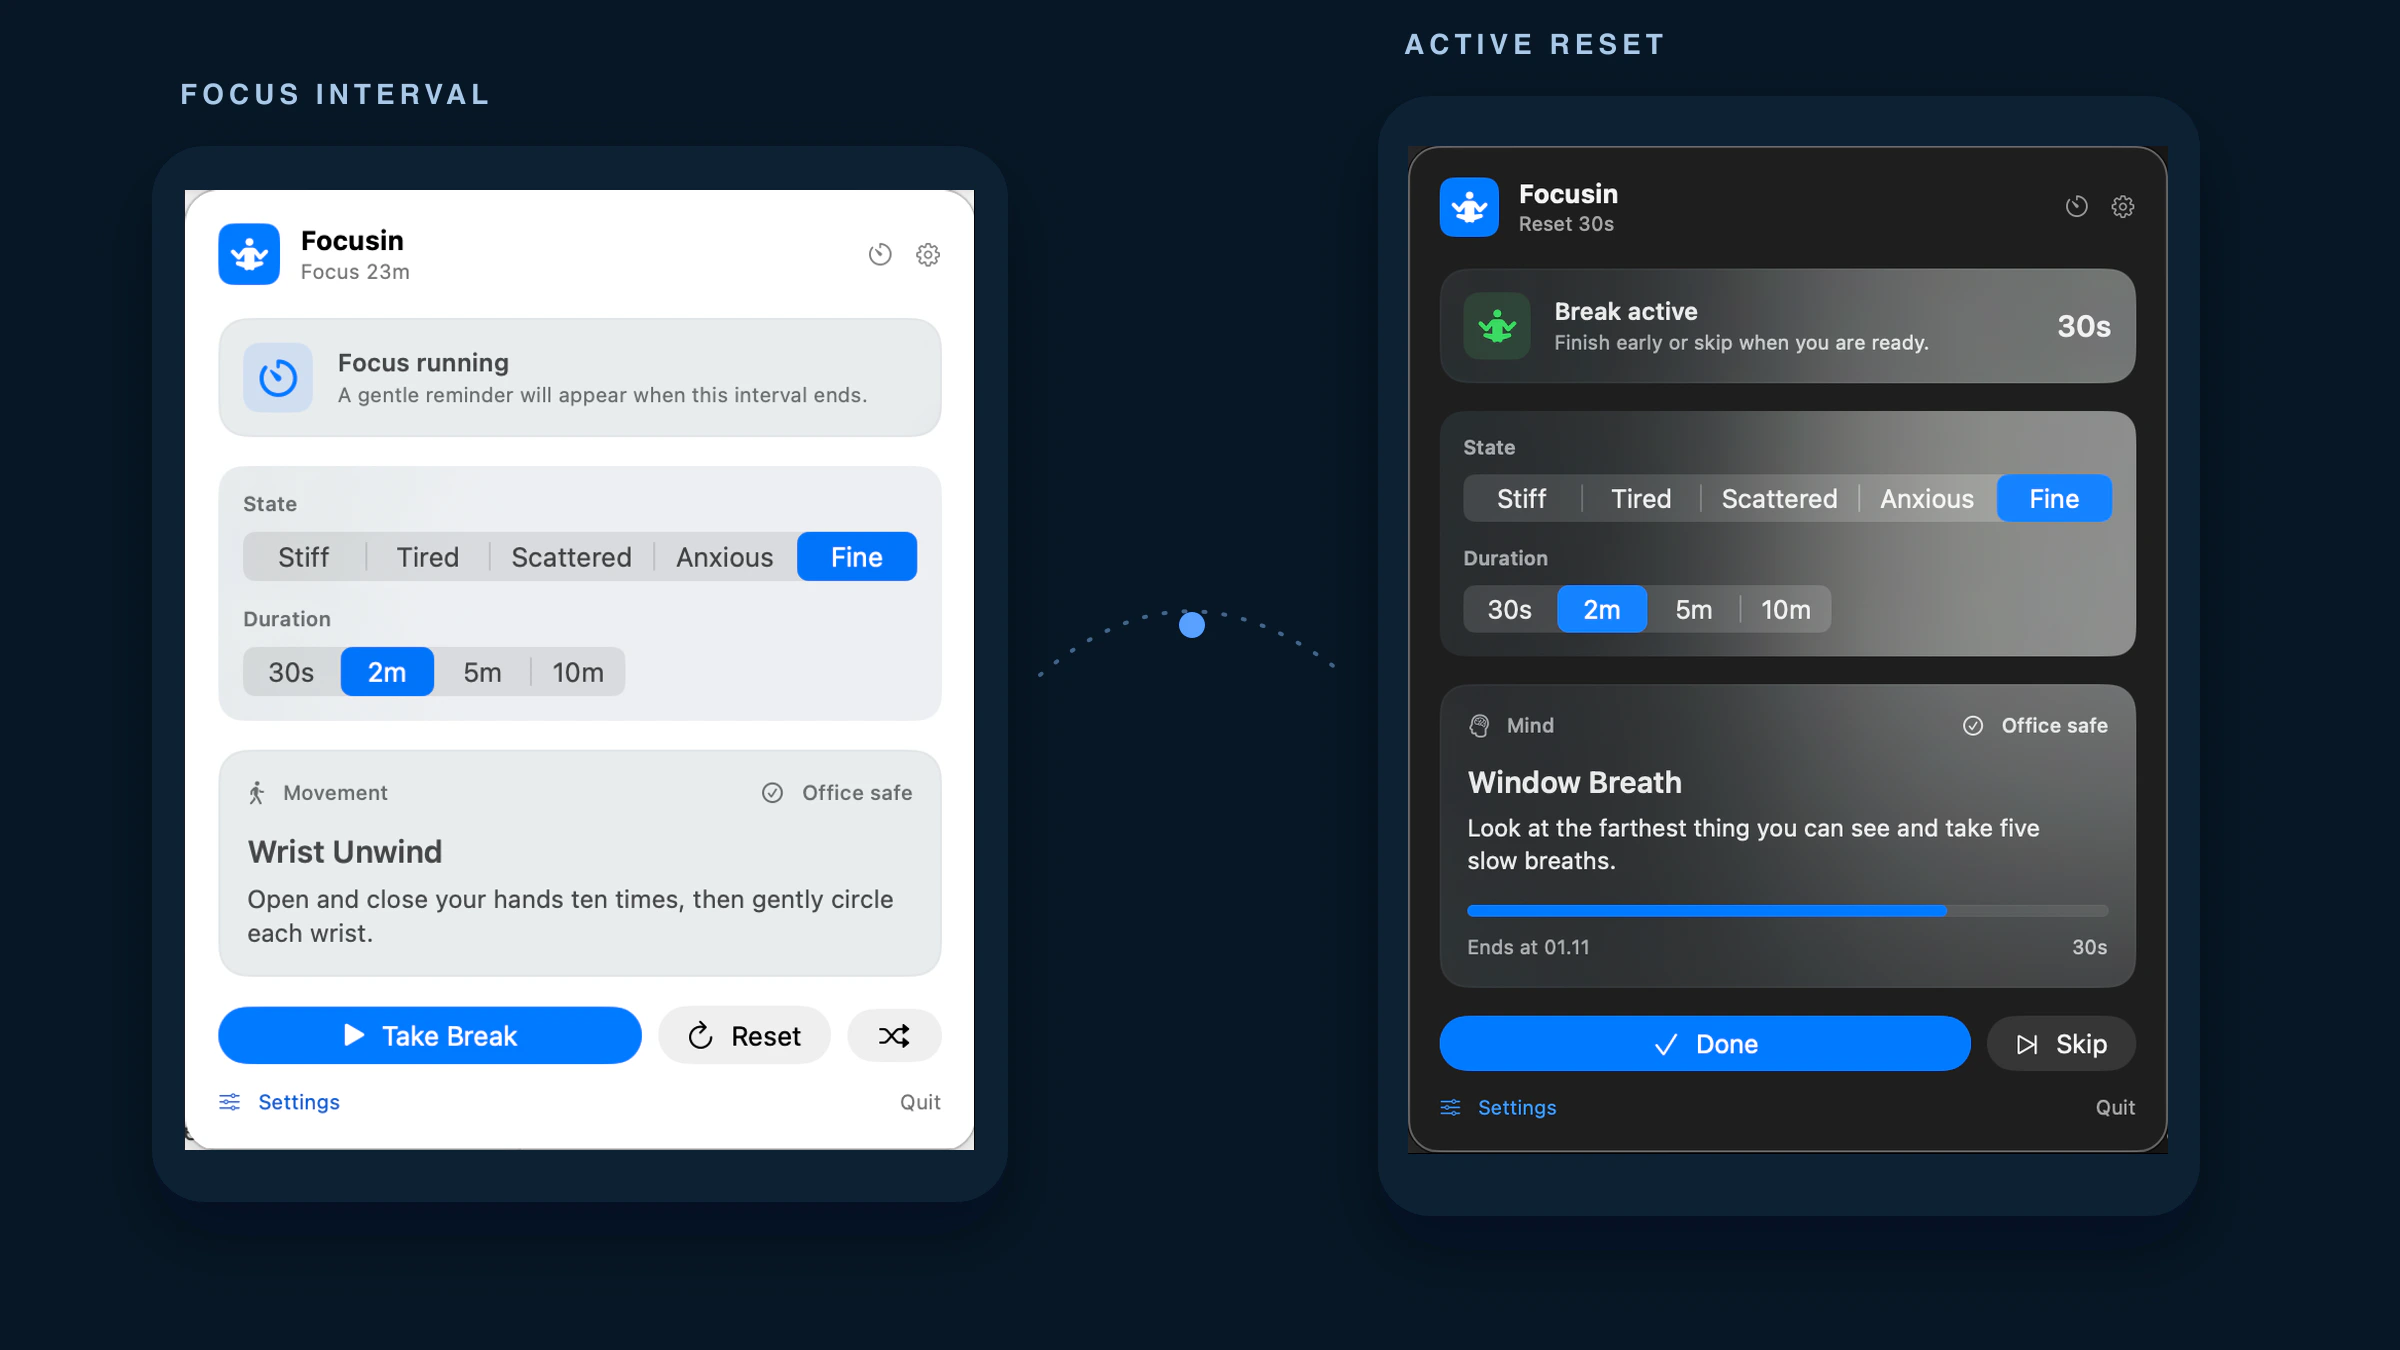
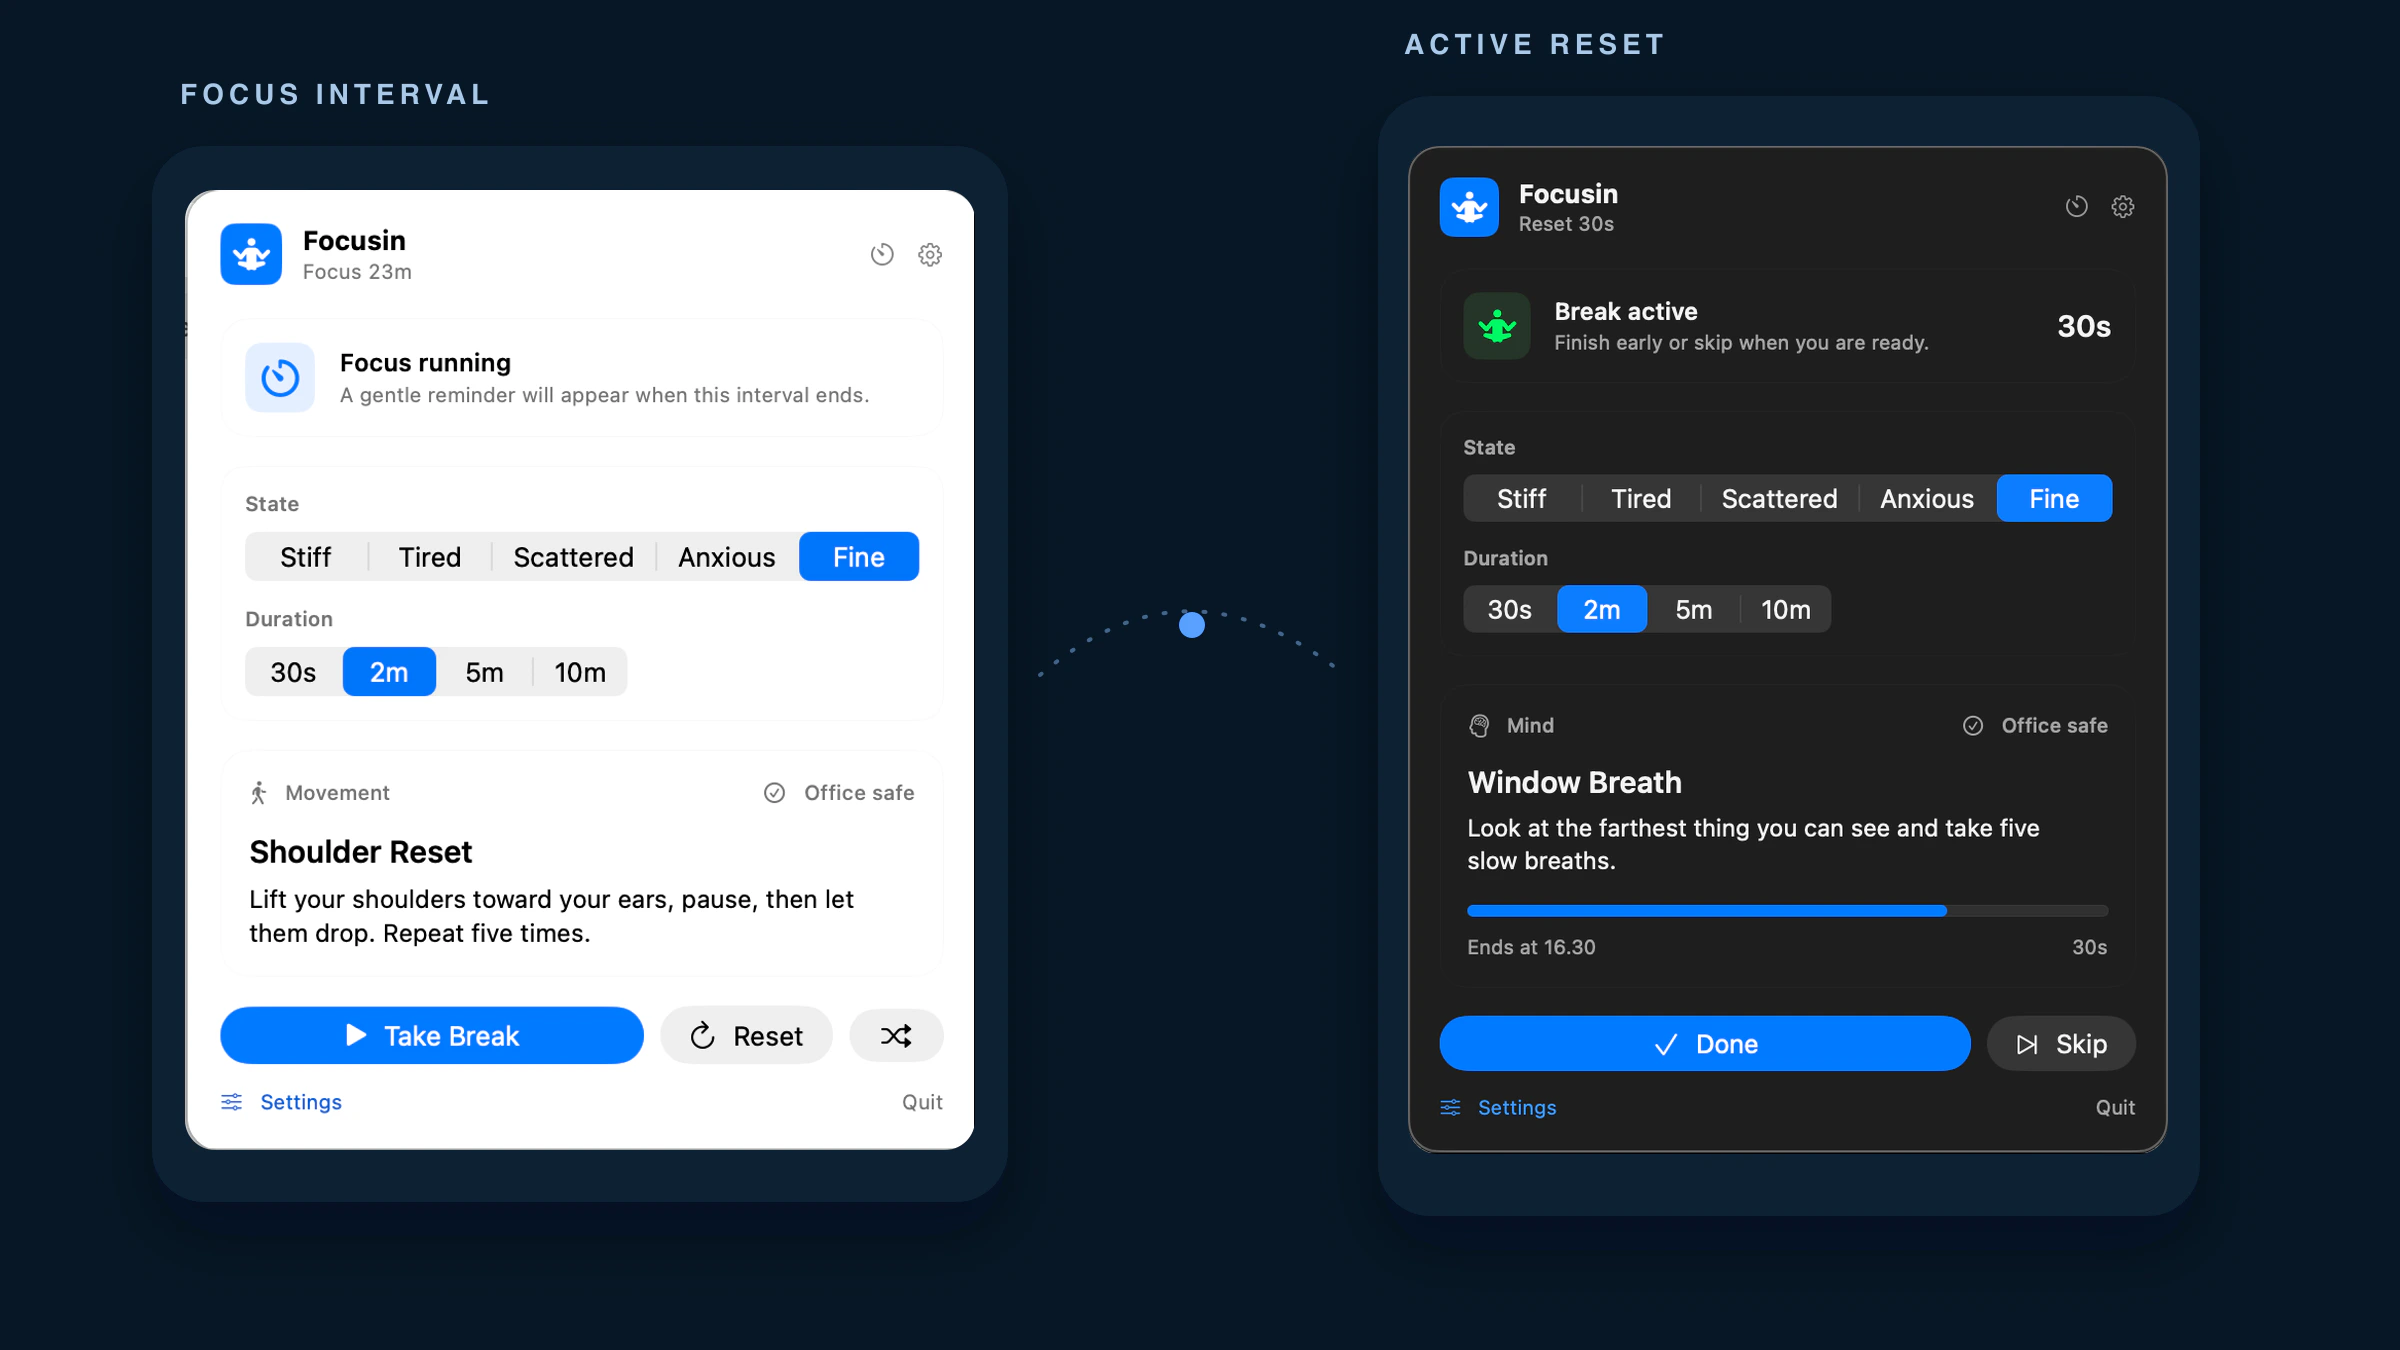
fix: updated case study desc.

diff --git a/app/data/case-studies.ts b/app/data/case-studies.ts
@@ -118,7 +118,7 @@ export const caseStudies: Record<CaseStudyRecord["id"], CaseStudyRecord> = {
     verification: [
       "Fifty-four deterministic tests cover lifecycle, persistence, quiet hours, recommendation passes, catalog validation, permission reconciliation, and beta templates.",
       "Twenty-one bundled activities pass state, duration, safety, and default-filter coverage validation, with named human content approval for version 0.1.0 (1).",
-      "Forty-one current appearance and accessibility captures cover light and dark modes, large text, increased contrast, reduced transparency, recovery states, and Settings.",
+      "Forty-one recorded appearance and accessibility captures cover light and dark modes, large text, increased contrast, reduced transparency, recovery states, and Settings; they remain engineering evidence rather than final release media.",
     ],
     limitations: [
       "The current build and unsigned Release integrity are verified; no signed archive, installable external beta, TestFlight build, or App Store listing exists yet.",
